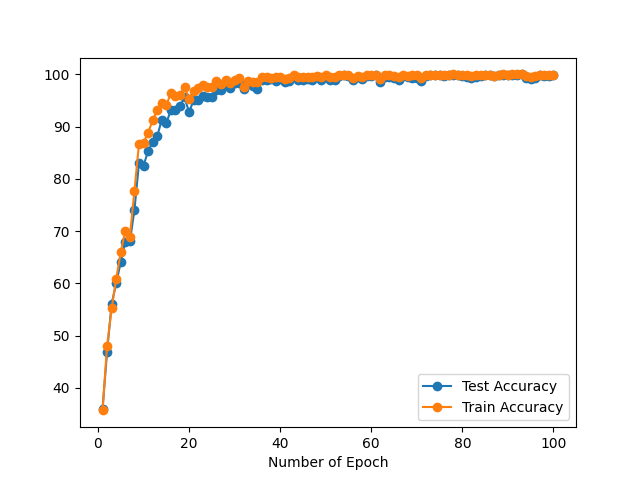
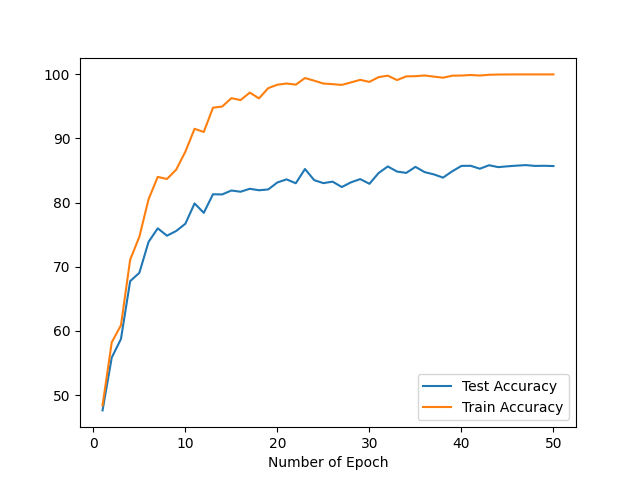
New version of figures, fixed distributed datasets

diff --git a/CNNModel/mlproj_new.py b/CNNModel/mlproj_new.py
@@ -14,11 +14,13 @@ import torch.distributed as dist
 
 import torch.multiprocessing as mp
 from torch.utils.data.distributed import DistributedSampler
+from torch.utils.data import Subset
 from torch.nn.parallel import DistributedDataParallel as DDP
 from torch.distributed import init_process_group, destroy_process_group
 from torchmetrics import Metric
 
-dataset_loc = "../datasets/Sohas_weapon-Classification"
+#dataset_loc = "../datasets/Sohas_weapon-Classification"
+dataset_loc = "../balanced_datasets"
 
 # https://pytorch.org/tutorials/intermediate/ddp_tutorial.html
 def ddp_setup(rank, world_size):
@@ -41,28 +43,63 @@ def testtrain_acc(x, net, device):
   return(100*correct/total)
 
 class DataLoader(object):
-    def __init__(self):
-        super(DataLoader, self).__init__()
+    def __init__(self, num_epoch):
+        super(DataLoader, self).__init__() 
 
         transform = transforms.Compose([
             transforms.Resize(256),
             transforms.CenterCrop(225),
-            transforms.ColorJitter(brightness = 0.5),
+            #transforms.ColorJitter(brightness = 0.5),
             transforms.ToTensor(),
             transforms.Normalize((0.485, 0.456, 0.406), (0.229, 0.224, 0.225))])
 
         orig_dataset = torchvision.datasets.ImageFolder(root=dataset_loc, transform=transform)
+
         tot_samples = len(orig_dataset)
         samples_test = int(0.2 * tot_samples)
 
         # https://discuss.pytorch.org/t/using-imagefolder-random-split-with-multiple-transforms/79899
-        self.train, self.test = torch.utils.data.random_split(orig_dataset, [tot_samples - samples_test, samples_test])
-        self.trainLoader = torch.utils.data.DataLoader(self.train, batch_size=32, num_workers=2, shuffle=False, sampler=DistributedSampler(self.train))
-        self.testLoader = torch.utils.data.DataLoader(self.test, batch_size=32, num_workers=2, shuffle=False, sampler=DistributedSampler(self.test))
+        self.trainsets, self.testsets = torch.utils.data.random_split(orig_dataset, [tot_samples - samples_test, samples_test])
+        #self.trainLoader = torch.utils.data.DataLoader(self.train, batch_size=32, num_workers=2, shuffle=False, sampler=DistributedSampler(self.train))
+        #self.testLoader = torch.utils.data.DataLoader(self.test, batch_size=32, num_workers=2, shuffle=False, sampler=DistributedSampler(self.test))
 
-        self.train_acc = []
-        self.test_acc = []
-        self.loss_vals = []
+        self.train_acc = np.zeros(num_epoch)
+        self.test_acc = np.zeros(num_epoch)
+        self.loss_vals = np.zeros(num_epoch)
+
+        print("Finished initializing dataLoader")
+
+class DistributedDataLoader(object):
+    def __init__(self, trainsets, testsets, world_size, rank):
+        super(DistributedDataLoader, self).__init__()
+        self.train_subsets = trainsets
+        self.test_subsets = testsets
+
+        if world_size > 1:
+            train_subsize = len(trainsets) / world_size
+            test_subsize = len(testsets) / world_size
+
+            # Subdivide trainset
+            start_index = rank * train_subsize
+            end_index = start_index + train_subsize
+            if rank == world_size - 1:
+                end_index = len(trainsets)
+            indices = [*range(int(start_index), int(end_index))]
+            self.train_subsets = Subset(trainsets, indices)
+
+            # Subdivide testset
+            start_index = rank * test_subsize
+            end_index = start_index + test_subsize
+            if rank == world_size - 1:
+                end_index = len(testsets)
+            indices = [*range(int(start_index), int(end_index))]
+            self.test_subsets = Subset(testsets, indices)
+
+        # Load train and test dataset with samplers
+        self.trainLoader = torch.utils.data.DataLoader(self.train_subsets, batch_size = 32)
+        self.testLoader = torch.utils.data.DataLoader(self.test_subsets, batch_size = 32)
+
+        print("Finished initializing distributedDataLoader")
 
 class Net(nn.Module):
     def __init__(self):
@@ -106,36 +143,32 @@ class MetricLoss(Metric):
     def compute(self):
         return (torch.mean(self.loss)).item(), (torch.mean(self.train_accuracy)).item(), (torch.mean(self.test_accuracy)).item()
 
-def main(rank, world_size):
-    
+def main(rank, world_size, num_epoch, dataLoader):
     ddp_setup(rank, world_size)
     gpu_id = rank
 
     metric = MetricLoss()
+
+    distributedDataLoader = DistributedDataLoader(dataLoader.trainsets, dataLoader.testsets, world_size, gpu_id)
     
     net = Net()
     net.metric = metric
     net.to(gpu_id)
     net = DDP(net, device_ids=[gpu_id])
 
-    dataLoader = DataLoader()
-
     criterion = nn.CrossEntropyLoss()
     optimizer = optim.SGD(net.parameters(), lr=0.01, momentum=0.9)
-    epoch_num = 100
 
-    for epoch in range(epoch_num):  # loop over the dataset multiple times
+    for epoch in range(num_epoch):  # loop over the dataset multiple times
 
         print("Epoch #%d:" % epoch)
-        dataLoader.trainLoader.sampler.set_epoch(epoch)
-        dataLoader.testLoader.sampler.set_epoch(epoch)
-        
+
         # Start timer
         epoch_timer_start = time.perf_counter()
         train_timer_start = time.perf_counter()
 
         running_loss = 0.0
-        for i, data in enumerate(dataLoader.trainLoader, 0):
+        for i, data in enumerate(distributedDataLoader.trainLoader, 0):
             # get the inputs
             inputs, labels = data
             inputs, labels = inputs.to(gpu_id), labels.to(gpu_id)
@@ -157,16 +190,21 @@ def main(rank, world_size):
 
         # End timer
         train_timer_end = time.perf_counter()
-        
+
+        dist.barrier()
+
+        #print("Training Duration: %.3fs" % (train_timer_end - train_timer_start))
         train_acc_timer_start = time.perf_counter()
-        train_acc = testtrain_acc(dataLoader.trainLoader, net, gpu_id)
+        train_acc = testtrain_acc(distributedDataLoader.trainLoader, net, gpu_id)
         train_acc_timer_end = time.perf_counter()
+        #print("Training Accuracy Duration: %.3fs" % (train_acc_timer_end - train_acc_timer_start))
 
         test_acc_timer_start = time.perf_counter()
-        test_acc = testtrain_acc(dataLoader.testLoader, net, gpu_id)
+        test_acc = testtrain_acc(distributedDataLoader.testLoader, net, gpu_id)
         test_acc_timer_end = time.perf_counter()
+        #print("Testing Accuracy Duration: %.3fs" % (test_acc_timer_end - test_acc_timer_start))
 
-        metric(running_loss / len(dataLoader.trainLoader), train_acc, test_acc)
+        metric(running_loss / len(distributedDataLoader.trainLoader), train_acc, test_acc)
         total_loss, total_train_acc, total_test_acc = metric.compute()
         
         '''print("Individual Loss:", running_loss / len(dataLoader.trainLoader))
@@ -177,26 +215,24 @@ def main(rank, world_size):
         print("Metric Test Acc:", total_test_acc)'''
         metric.reset()
 
-        dataLoader.loss_vals.append(total_loss)
-        dataLoader.train_acc.append(total_train_acc)
-        dataLoader.test_acc.append(total_test_acc)
+        dataLoader.loss_vals[epoch] = (total_loss)
+        dataLoader.train_acc[epoch] = (total_train_acc)
+        dataLoader.test_acc[epoch] = (total_test_acc)
 
         # End timer
         epoch_timer_end = time.perf_counter()
-        '''print("Training Duration: %.3fs" % (train_timer_end - train_timer_start))
-        print("Training Accuracy Duration: %.3fs" % (train_acc_timer_end - train_acc_timer_start))
-        print("Testing Accuracy Duration: %.3fs" % (test_acc_timer_end - test_acc_timer_start))
-        print("Epoch Duration: %.3fs" % (epoch_timer_end - epoch_timer_start))'''
+        print("Epoch Duration: %.3fs" % (epoch_timer_end - epoch_timer_start))
+        dist.barrier()
 
 
-    epochs = [i+1 for i in range(epoch_num)]
-    plt.plot(epochs, dataLoader.loss_vals, marker="o", label="Total Loss")
+    epochs = [i+1 for i in range(num_epoch)]
+    plt.plot(epochs, dataLoader.loss_vals, label="Total Loss")
     plt.legend()
     plt.xlabel("Number of Epoch")
     plt.savefig("total_loss.png")
     plt.clf()
-    plt.plot(epochs, dataLoader.test_acc, marker="o", label="Test Accuracy")
-    plt.plot(epochs, dataLoader.train_acc, marker="o", label="Train Accuracy")
+    plt.plot(epochs, dataLoader.test_acc, label="Test Accuracy")
+    plt.plot(epochs, dataLoader.train_acc, label="Train Accuracy")
     plt.legend()
     plt.xlabel("Number of Epoch")
     plt.savefig("accuracy.png")
@@ -204,7 +240,15 @@ def main(rank, world_size):
 
 
 if __name__ == '__main__':
-    world_size = torch.cuda.device_count()
+    # Make all random sequences on all computers the same.
+    np.random.seed(1)
+
+    world_size = 2
     print("Using", world_size, "GPUs")
-    mp.spawn(main, args=(world_size,), nprocs = world_size)
+
+    num_epoch = 50
+    dataLoader = DataLoader(num_epoch)
+
+    mp.spawn(main, args=(world_size, num_epoch, dataLoader), nprocs = world_size)
+
     #main()
